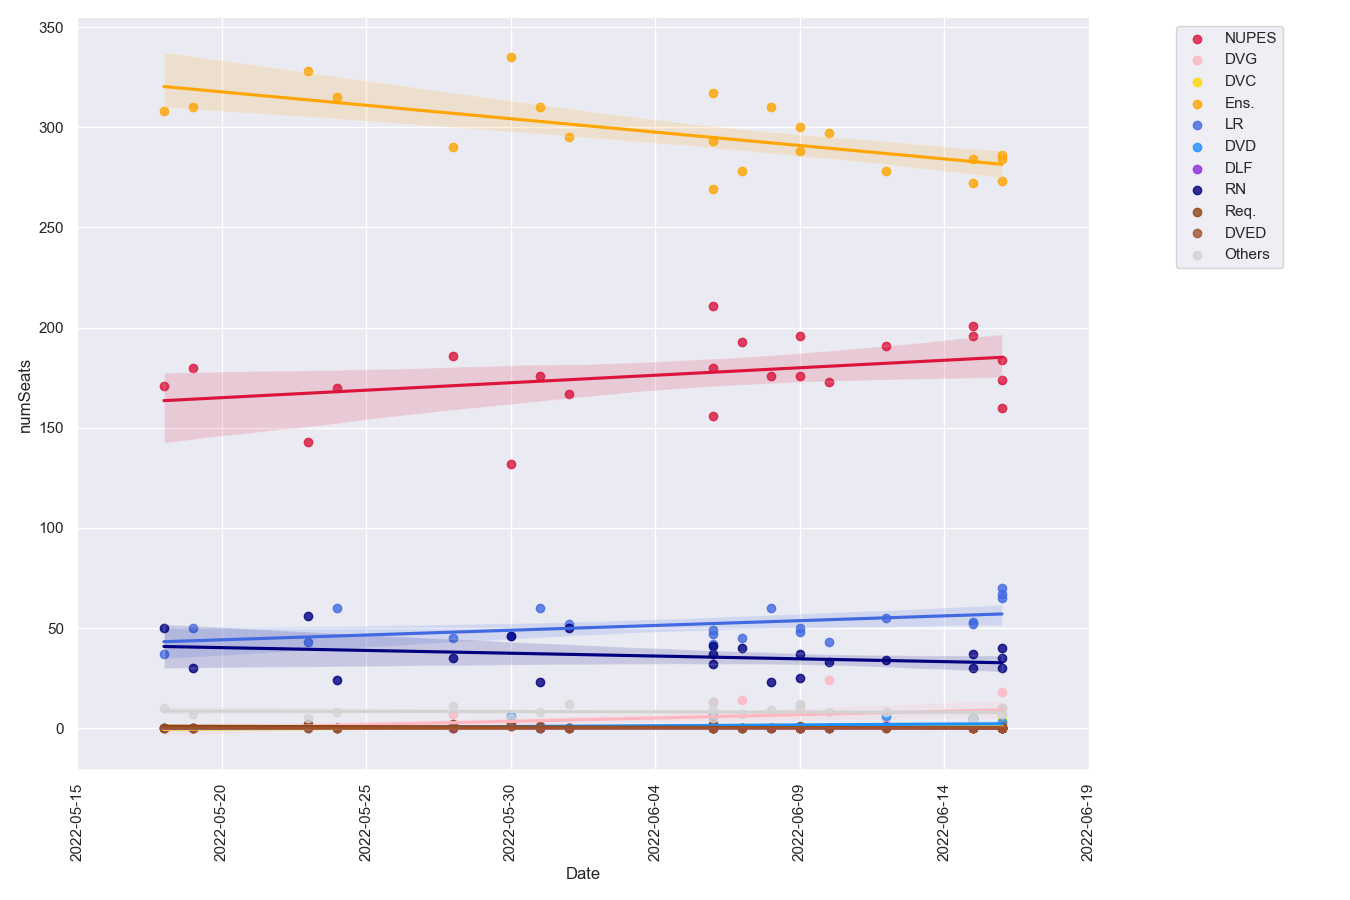
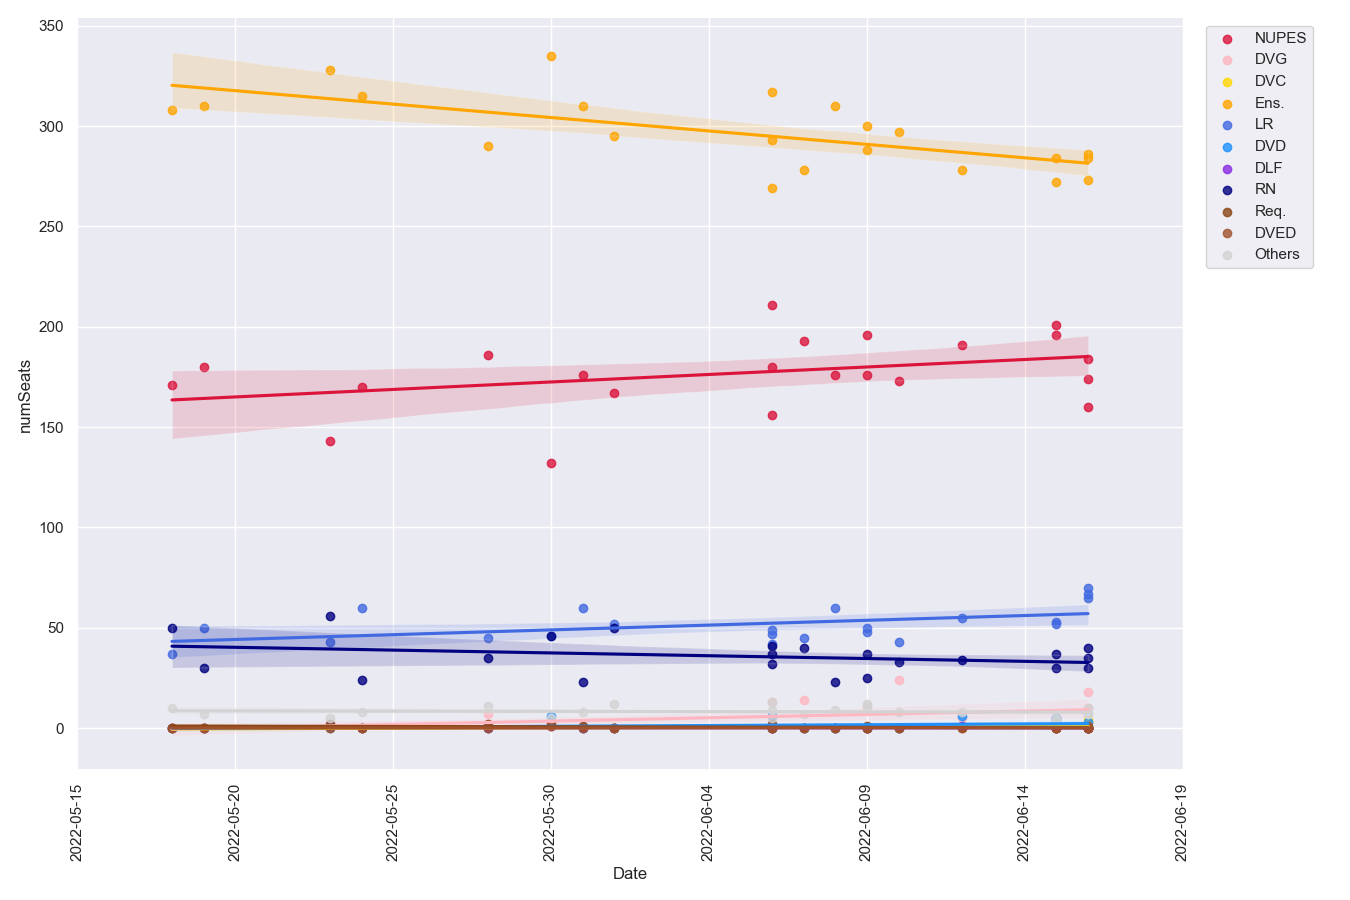
changed legend location (put closer)

diff --git a/timeSeries_seatProjection.py b/timeSeries_seatProjection.py
@@ -30,7 +30,7 @@ for ax in plot.axes.flat:
     new_labels = [date.fromordinal(int(label)) for label in labels] # convert ordinal back to datetime
     ax.set_xticks(labels)
     ax.set_xticklabels(new_labels, rotation=90) # set new labels
-plt.legend(loc='upper right', bbox_to_anchor=(1.2,1))
+plt.legend(loc='upper right', bbox_to_anchor=(1.125, 1))
 plt.tight_layout()
 plt.savefig('Figure_2.png')
 plt.show()
